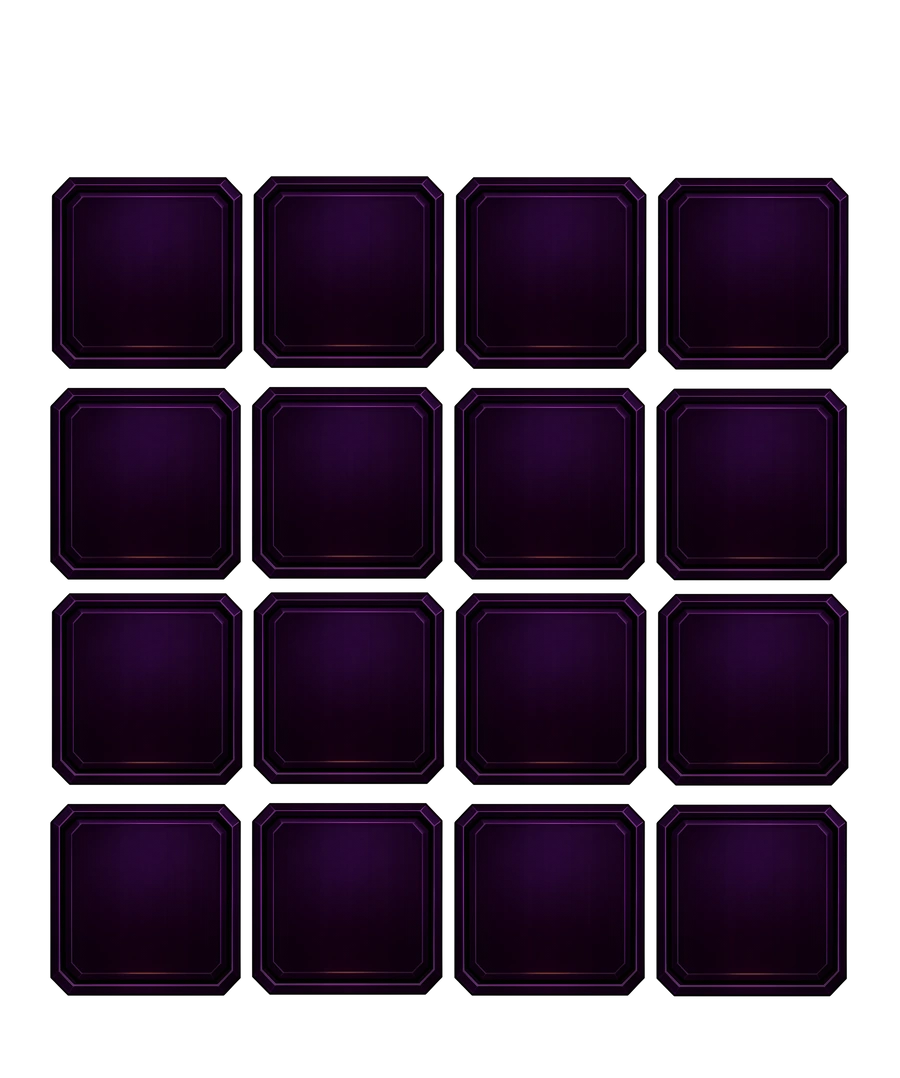
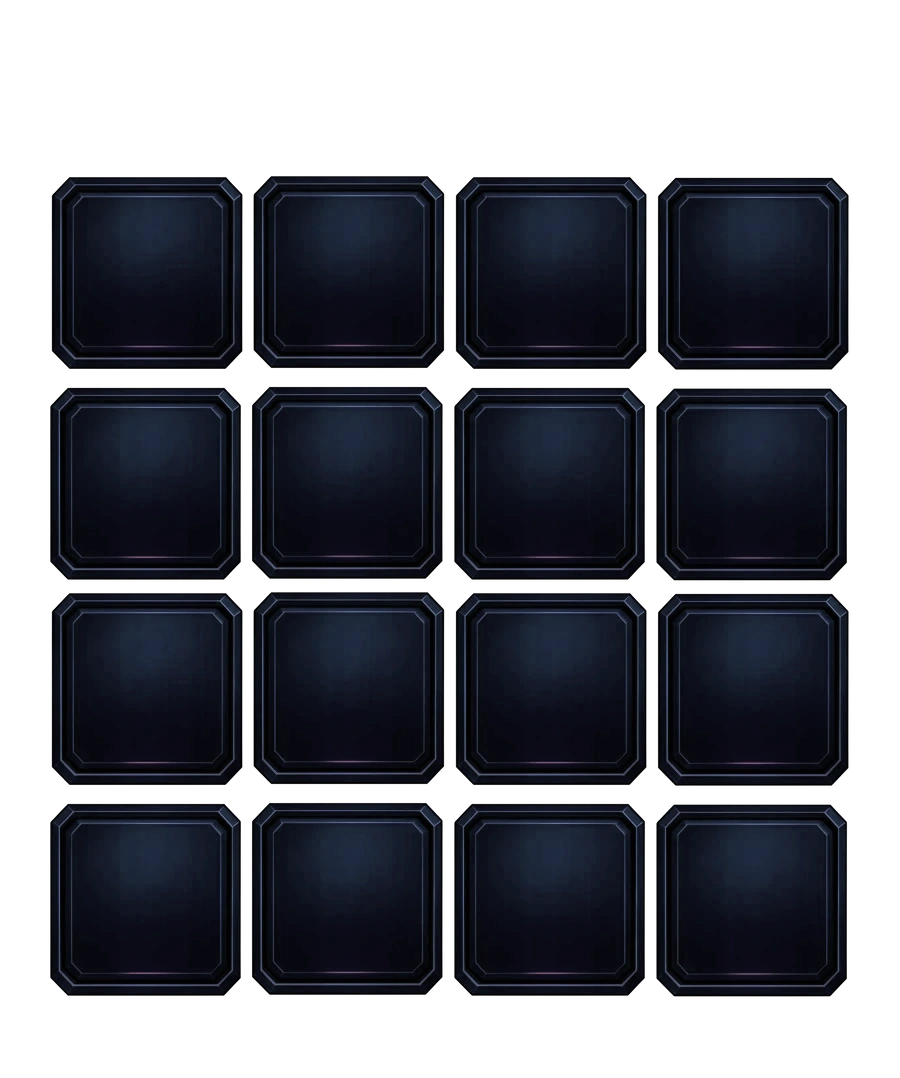
v2.69.2: de doffe letterknoppen zijn staalblauw in plaats van paars
Paars op paars gaf te weinig scheiding met de sectie eronder. De tint is
gedraaid op de art ZELF (kleurdraai op de pixels, geen laag eroverheen), zodat
het metaal, de belichting en de randen precies blijven staan en alleen de kleur
opschuift. Iets meer verzadiging en helderheid erbij, anders wordt zo'n draai
dof.

Blauw en niet groen of brons: groen botst met het "goed"-oordeel en brons ligt
te dicht bij de gouden aan-stand, en dan verlies je juist het verschil tussen
gekozen en niet gekozen. Koel staal tegen warm goud houdt alle vier de standen
(dof, gekozen, goed, fout) uit elkaar.

diff --git a/frontend/src/screens/_PreviewLettersoep.tsx b/frontend/src/screens/_PreviewLettersoep.tsx
@@ -405,7 +405,7 @@ export function PreviewLettersoep() {
         ) : (
           // ---- het bord ------------------------------------------------------
           <Sectie art="/ui/soep/bord.webp?v=1" verhouding={BORD_V} kind={bordRef}>
-            <img src="/ui/soep/letters-dof.webp?v=1" alt="" aria-hidden style={{ position: "absolute", inset: 0, width: "100%", height: "100%", display: "block" }} />
+            <img src="/ui/soep/letters-dof.webp?v=2" alt="" aria-hidden style={{ position: "absolute", inset: 0, width: "100%", height: "100%", display: "block" }} />
 
             <div
               style={{

diff --git a/frontend/src/version.ts b/frontend/src/version.ts
@@ -1,2 +1,2 @@
 // Bump per user-facing release. Shown in Settings > About.
-export const APP_VERSION = "2.69.1";
+export const APP_VERSION = "2.69.2";
